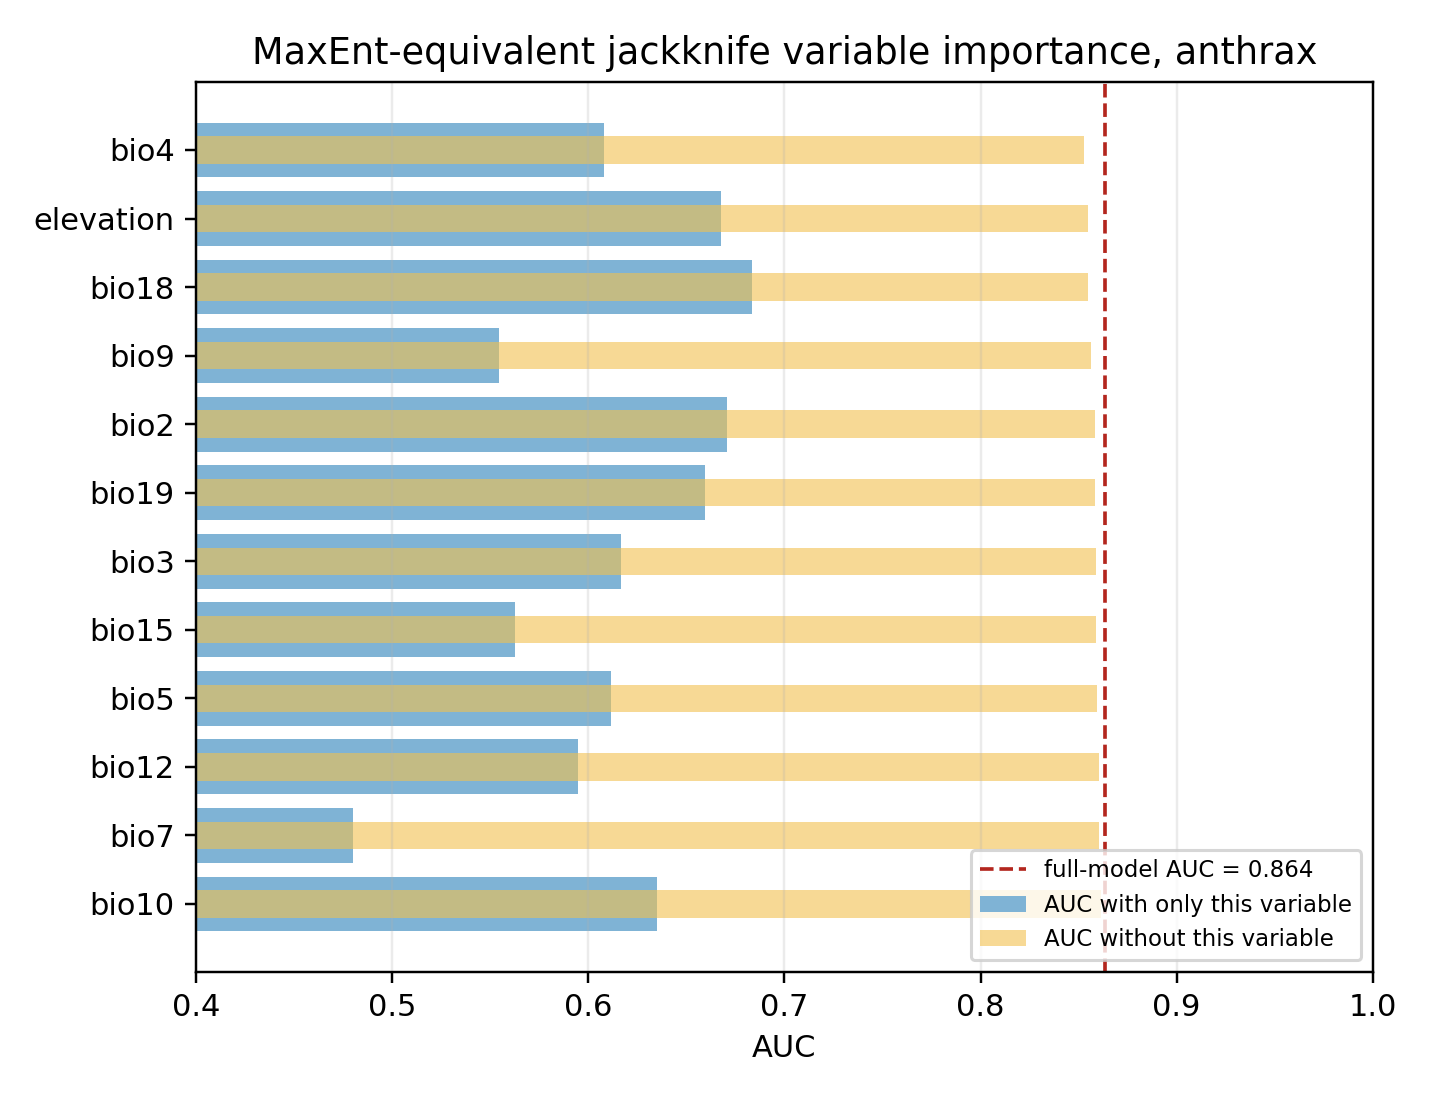
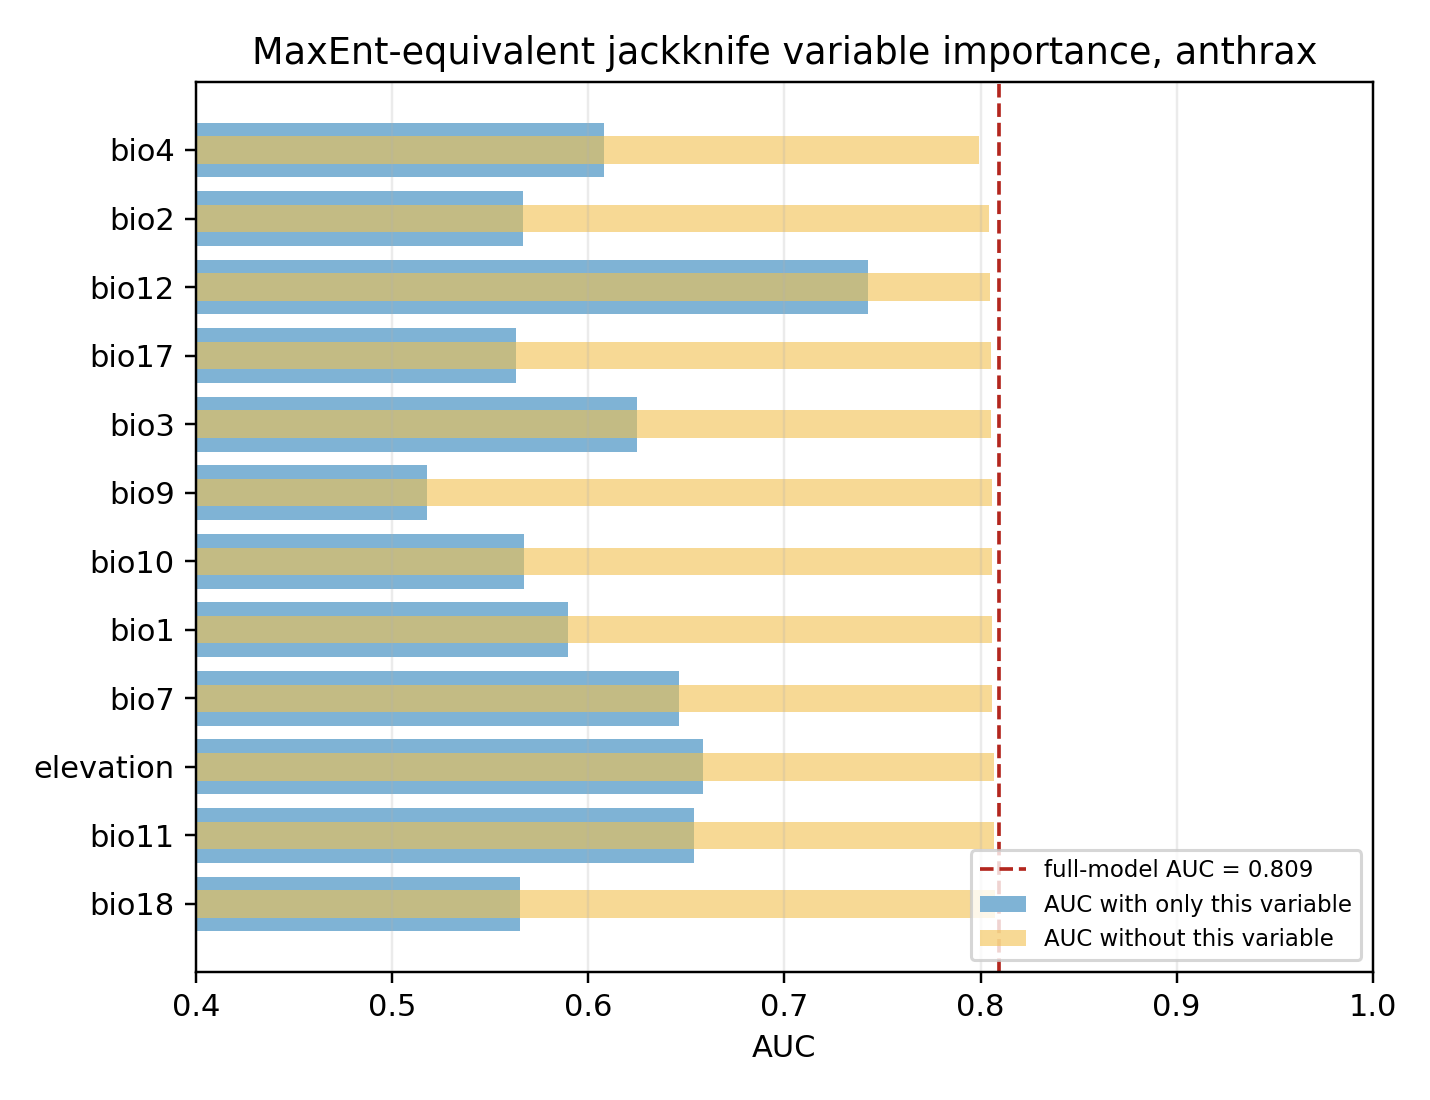
Add spatial block cross-validation and national-boundary masking to MaxEnt module
Random 75/25 splits put spatially close records on both sides of a split
and inflate AUC, and background drawn from a rectangular bounding box
includes easily separable territory outside the study area. The MaxEnt-
equivalent module now also reports spatial block cross-validation (2-degree
blocks, 5 folds, 10 repeats; Roberts et al. 2017), and run_maxent.py masks
background to a national boundary polygon (Natural Earth 1:50m, public
domain) by default.

On the real registries this lowers anthrax AUC from 0.863 to 0.809 (random
splits) and 0.761 (spatial blocks); rabies livestock/companion/wildlife
become 0.721/0.860/0.624 random and 0.631/0.793/0.625 block. Figure 4
(jackknife) regenerated from the masked run.

diff --git a/pipeline/modules/maxent.py b/pipeline/modules/maxent.py
@@ -57,7 +57,19 @@ _DEFAULT_PARAMS = {
     "n_iterations": 25,  # article uses 100; kept lower by default for a fast reference run
     "random_seed": 42,
     "l2_C": 1.0,
+    # spatial block cross-validation (Roberts et al. 2017, Ecography 40:913-929):
+    # set spatial_cv_block_deg to None to skip it
+    "spatial_cv_block_deg": 2.0,   # side of a square block, decimal degrees
+    "spatial_cv_folds": 5,
+    "spatial_cv_repeats": 10,      # independent random assignments of blocks to folds
 }
+
+
+def _block_ids(lons: np.ndarray, lats: np.ndarray, block_deg: float) -> np.ndarray:
+    """Integer id of the square block_deg x block_deg cell each point falls in."""
+    bx = np.floor(np.asarray(lons) / block_deg).astype(np.int64)
+    by = np.floor(np.asarray(lats) / block_deg).astype(np.int64)
+    return bx * 100_000 + by
 
 
 def _feature_matrix(x: np.ndarray, mean: np.ndarray, std: np.ndarray) -> np.ndarray:
@@ -88,6 +100,8 @@ class MaxEntModule(RiskModule):
         presence_x = covs.sample(events["longitude"].to_numpy(), events["latitude"].to_numpy())
         keep = ~np.isnan(presence_x).any(axis=1)
         presence_x = presence_x[keep]
+        presence_lon = events["longitude"].to_numpy()[keep]
+        presence_lat = events["latitude"].to_numpy()[keep]
         n_dropped_nodata = int((~keep).sum())
         if len(presence_x) < 10:
             raise ValueError(f"only {len(presence_x)} presence points fall on valid covariate cells -- too few to fit")
@@ -117,6 +131,61 @@ class MaxEntModule(RiskModule):
 
         all_cols = np.arange(len(covs.names))
         full_auc_mean, full_auc_std = fit_and_score(all_cols, p["n_iterations"])
+
+        # --- spatial block cross-validation -------------------------------------
+        # Presence AND background points are assigned to square spatial blocks;
+        # whole blocks are held out together, so that points close in space can
+        # never sit on both sides of a split (the source of optimistic AUC under
+        # the random split above). Standardization and the model are fitted on
+        # the training blocks only.
+        spatial_cv_table = pd.DataFrame()
+        spatial_cv = None
+        if p["spatial_cv_block_deg"]:
+            k = int(p["spatial_cv_folds"])
+            pres_blocks = _block_ids(presence_lon, presence_lat, p["spatial_cv_block_deg"])
+            bg_blocks = _block_ids(bg_lons, bg_lats, p["spatial_cv_block_deg"])
+            blocks = np.unique(np.concatenate([pres_blocks, bg_blocks]))
+            if len(np.unique(pres_blocks)) < k:
+                raise ValueError(
+                    f"presence points occupy only {len(np.unique(pres_blocks))} spatial blocks; "
+                    f"need at least spatial_cv_folds={k}. Use a smaller spatial_cv_block_deg or fewer folds."
+                )
+            rows_cv = []
+            for rep in range(int(p["spatial_cv_repeats"])):
+                fold_of_block = dict(zip(blocks.tolist(), rng.permutation(len(blocks)) % k))
+                pres_fold = np.array([fold_of_block[b] for b in pres_blocks.tolist()])
+                bg_fold = np.array([fold_of_block[b] for b in bg_blocks.tolist()])
+                for fold in range(k):
+                    p_tr, p_te = presence_x[pres_fold != fold], presence_x[pres_fold == fold]
+                    b_tr, b_te = background_x[bg_fold != fold], background_x[bg_fold == fold]
+                    if len(p_te) == 0 or len(b_te) == 0 or len(p_tr) < 5:
+                        continue  # a fold with no held-out presence (or background) has no defined AUC
+                    m, sd = p_tr.mean(axis=0), p_tr.std(axis=0)
+                    sd[sd == 0] = 1.0
+                    clf = LogisticRegression(C=p["l2_C"], max_iter=1000)
+                    clf.fit(
+                        _feature_matrix(np.concatenate([p_tr, b_tr]), m, sd),
+                        np.concatenate([np.ones(len(p_tr)), np.zeros(len(b_tr))]),
+                    )
+                    scores = clf.predict_proba(_feature_matrix(np.concatenate([p_te, b_te]), m, sd))[:, 1]
+                    auc = roc_auc_score(np.concatenate([np.ones(len(p_te)), np.zeros(len(b_te))]), scores)
+                    rows_cv.append({"repeat": rep, "fold": fold, "n_presence_test": len(p_te),
+                                    "n_background_test": len(b_te), "auc": round(float(auc), 4)})
+            spatial_cv_table = pd.DataFrame(rows_cv)
+            if len(spatial_cv_table):
+                per_repeat = spatial_cv_table.groupby("repeat")["auc"].mean()
+                spatial_cv = {
+                    "block_deg": p["spatial_cv_block_deg"],
+                    "folds": k,
+                    "repeats": int(p["spatial_cv_repeats"]),
+                    "n_blocks_with_presence": int(len(np.unique(pres_blocks))),
+                    "n_folds_evaluated": int(len(spatial_cv_table)),
+                    "auc_mean": round(float(per_repeat.mean()), 4),
+                    # spread of the k-fold mean across repeated block-to-fold assignments
+                    "auc_std_across_repeats": round(float(per_repeat.std(ddof=0)), 4),
+                    # spread across individual held-out folds (larger; shows spatial heterogeneity)
+                    "auc_std_across_folds": round(float(spatial_cv_table["auc"].std(ddof=0)), 4),
+                }
 
         jackknife_rows = []
         for i, name in enumerate(covs.names):
@@ -162,10 +231,15 @@ class MaxEntModule(RiskModule):
             "n_background": len(background_x),
             "auc_mean": round(full_auc_mean, 4),
             "auc_std": round(full_auc_std, 4),
+            "spatial_block_cv": spatial_cv,
         }
 
         return RiskResult(
             geojson=None,
-            tables={"jackknife": jackknife_table, "suitability_grid": pd.DataFrame(suitability_grid)},
+            tables={
+                "jackknife": jackknife_table,
+                "suitability_grid": pd.DataFrame(suitability_grid),
+                "spatial_block_cv": spatial_cv_table,
+            },
             summary=summary,
         )

diff --git a/run_maxent.py b/run_maxent.py
@@ -46,6 +46,13 @@ def main() -> None:
                      help="pre-clipped multi-band GeoTIFF (default: the one tracked in this repo)")
     ap.add_argument("--n-iterations", type=int, default=25)
     ap.add_argument("--background-size", type=int, default=5000)
+    ap.add_argument("--boundary", default="data/boundaries/kazakhstan.geojson",
+                    help="GeoJSON polygon of the study territory; background points and the suitability "
+                         "surface are restricted to it. Pass an empty string to use the whole bounding box.")
+    ap.add_argument("--block-deg", type=float, default=2.0,
+                    help="side of the square blocks used for spatial block cross-validation (degrees); 0 = skip")
+    ap.add_argument("--cv-folds", type=int, default=5)
+    ap.add_argument("--cv-repeats", type=int, default=10)
     ap.add_argument("--reservoir-category", choices=["livestock", "companion", "wildlife"], default=None)
     args = ap.parse_args()
 
@@ -65,6 +72,9 @@ def main() -> None:
         covs = load_covariate_stack_from_file(args.covariate_file)
         print(f"loaded pre-clipped covariates from {args.covariate_file}: {covs.names}")
     print(f"covariate grid: {covs.shape}, valid cells: {int(covs.valid_mask().sum())}")
+    if args.boundary:
+        covs = covs.masked_to_boundary(str(HERE / args.boundary) if not os.path.isabs(args.boundary) else args.boundary)
+        print(f"masked to boundary {args.boundary}: valid cells now {int(covs.valid_mask().sum())}")
 
     module = MaxEntModule()
     ctx = RunContext(
@@ -74,6 +84,9 @@ def main() -> None:
             "covariates": covs,
             "n_iterations": args.n_iterations,
             "background_size": args.background_size,
+            "spatial_cv_block_deg": args.block_deg or None,
+            "spatial_cv_folds": args.cv_folds,
+            "spatial_cv_repeats": args.cv_repeats,
         },
     )
     warnings = module.validate(ctx)
@@ -90,6 +103,7 @@ def main() -> None:
     out_dir.mkdir(parents=True, exist_ok=True)
     (out_dir / "summary.json").write_text(json.dumps(result.summary, indent=2), encoding="utf-8")
     result.tables["jackknife"].to_csv(out_dir / "jackknife.csv", index=False)
+    result.tables["spatial_block_cv"].to_csv(out_dir / "spatial_block_cv.csv", index=False)
     print(f"\nsaved -> {out_dir}")
 
 

diff --git a/pipeline/covariates.py b/pipeline/covariates.py
@@ -8,8 +8,11 @@ from __future__ import annotations
 
 from dataclasses import dataclass
 
+import json
+
 import numpy as np
 import rasterio
+from rasterio.features import geometry_mask
 from rasterio.windows import from_bounds
 
 
@@ -39,6 +42,20 @@ class CovariateStack:
 
     def valid_mask(self) -> np.ndarray:
         return ~np.isnan(self.data).any(axis=0)
+
+    def masked_to_boundary(self, geojson_path: str) -> "CovariateStack":
+        """Return a copy in which every cell outside the polygon(s) of a
+        GeoJSON file (lon/lat, same CRS as the rasters) is set to NaN, so
+        that background points and the suitability surface are restricted to
+        the study territory instead of the rectangular bounding box."""
+        with open(geojson_path, encoding="utf-8") as fh:
+            gj = json.load(fh)
+        feats = gj["features"] if gj.get("type") == "FeatureCollection" else [gj]
+        geoms = [f.get("geometry", f) for f in feats]
+        outside = geometry_mask(geoms, out_shape=self.shape, transform=self.transform, invert=False)
+        data = self.data.copy()
+        data[:, outside] = np.nan
+        return CovariateStack(names=list(self.names), data=data, transform=self.transform, crs=self.crs)
 
     def random_background(self, n: int, rng: np.random.Generator) -> tuple[np.ndarray, np.ndarray]:
         """Uniform-random points among valid (non-nodata) cells -> (lons, lats)."""
